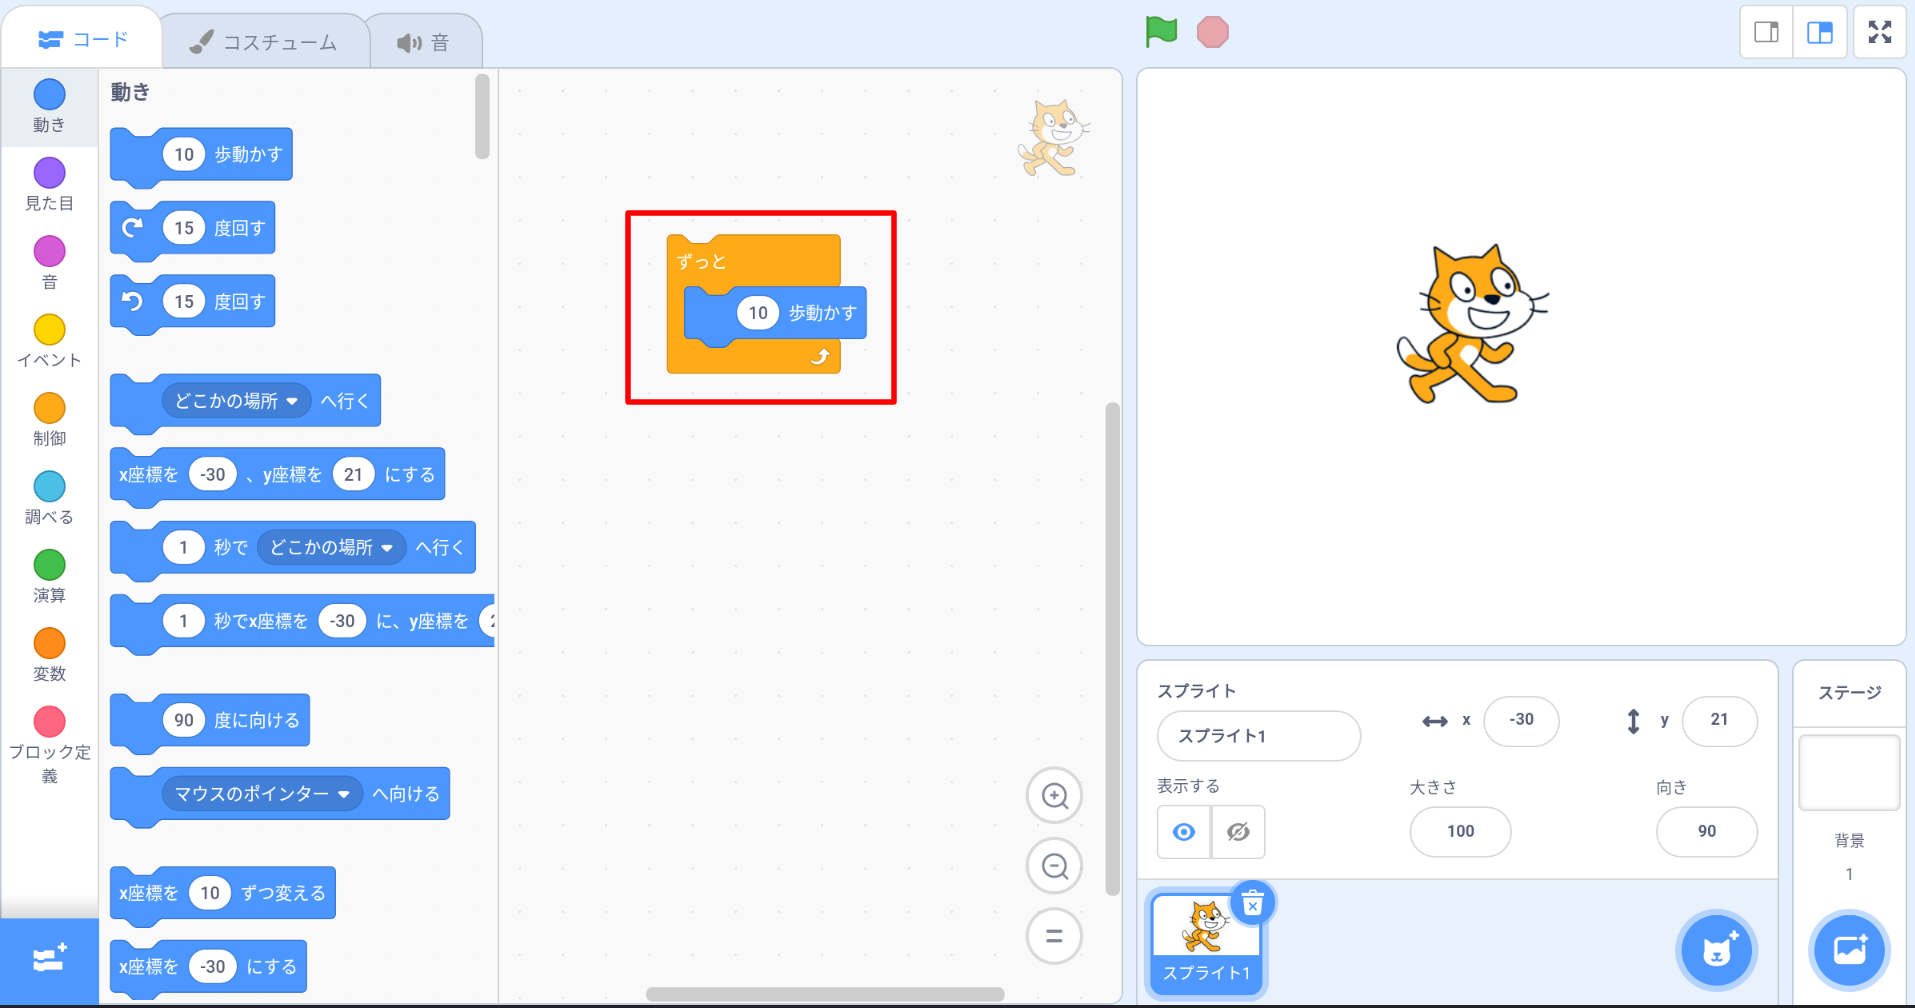
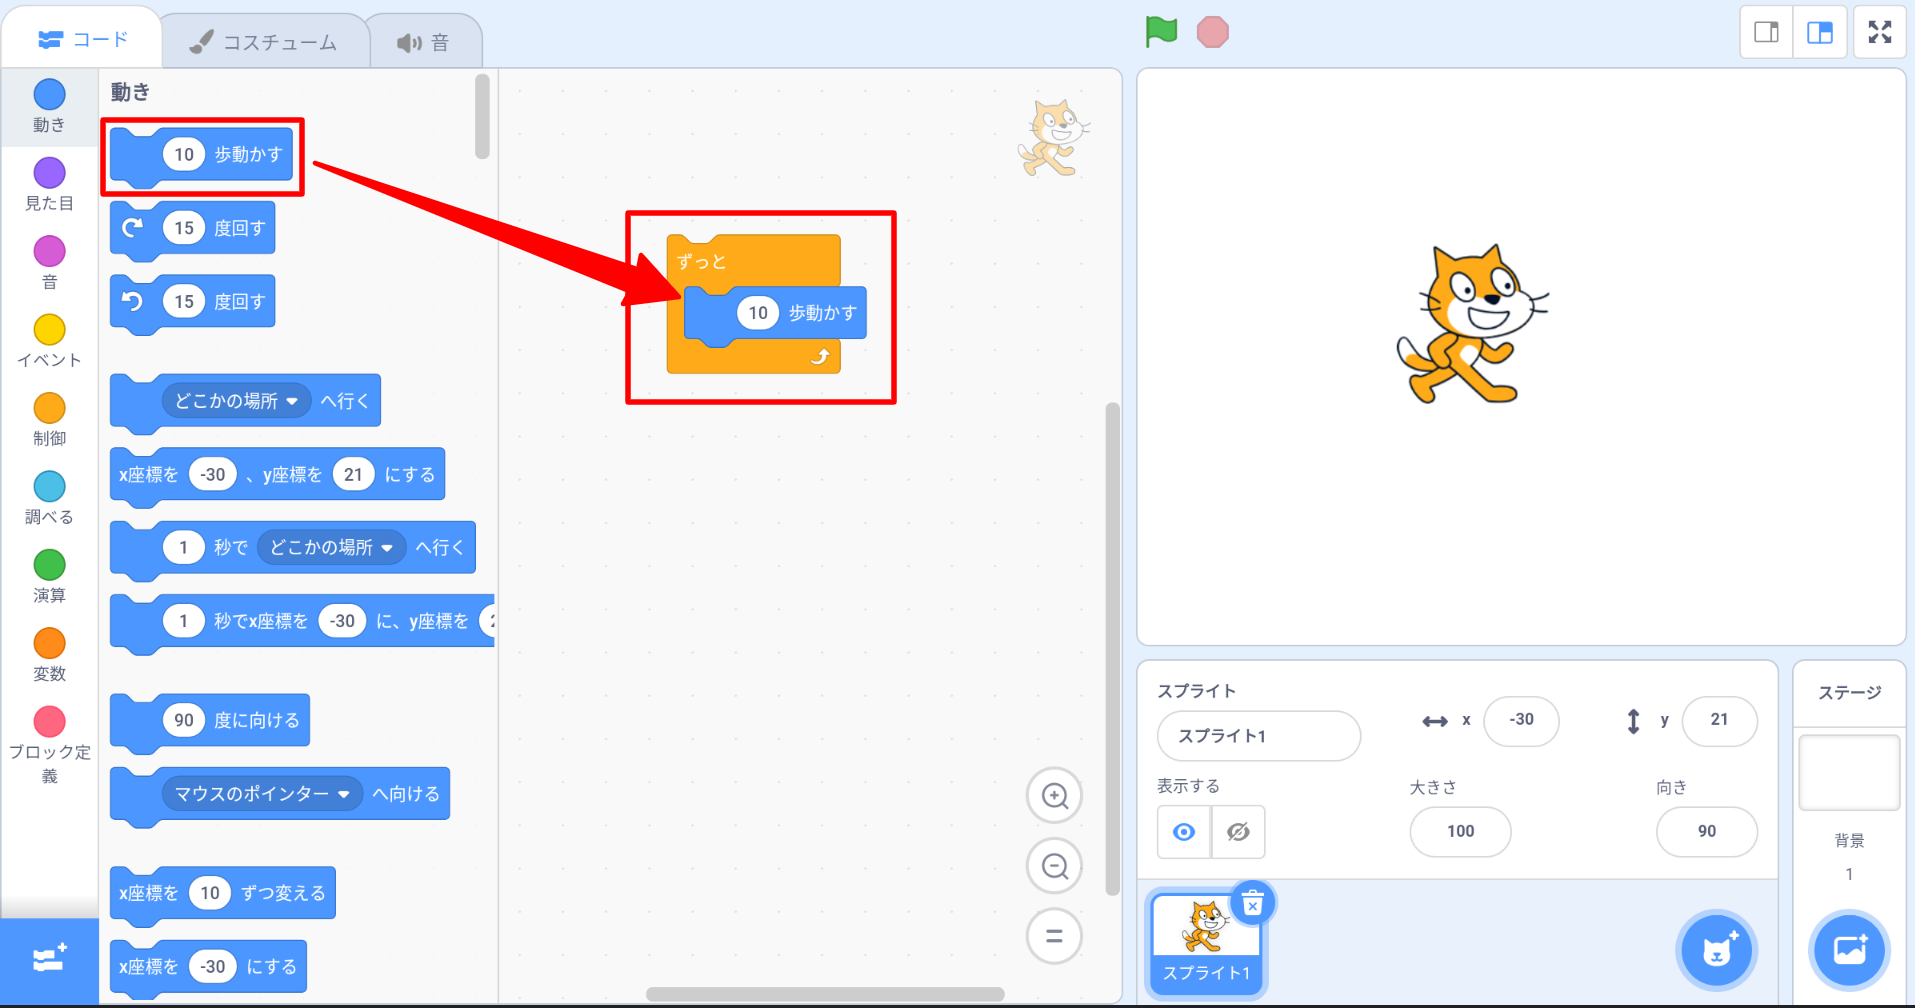
ステージの背景を変える手順を追記

diff --git a/scratch/scratch3-intro.md b/scratch/scratch3-intro.md
@@ -70,6 +70,8 @@ Scratch 3を起動すると以下の画面が表示される。
 
 ブロックカテゴリ「制御」から「ずっと」のブロックをスクリプトエリアに持ってきて、その中に「10歩動かす」のブロックを入れてください。
 
+![](./img/neko-always.png)
+
 ![](./img/neko-walk-always.png)
 
 その後、「ずっと」のブロックをクリックして、ネコはどうなるかを見てみよう。
@@ -136,6 +138,19 @@ Scratch 3を起動すると以下の画面が表示される。
 
 ## 背景を変えてみよう
 
+画面上右下の「背景を選ぶ」ボタンをクリックしてみよう。
+
+![](./img/neko-background-icon.png)
+
+そうしたら、下記画面が表示される。表示されているたくさんの種類の背景から好きなものをクリックして、左上の「Back」矢印をクリックしてください。
+
+![](./img/neko-background.png)
+
+例えば、上の図の中の「bedroom 1」を選んだとすると、ステージの背景は以下のように変わるはず。
+
+![](./img/neko-background-bedroom.png)
+
+いろんな背景を変えてみて自分の一番すぎなものにしてみてください。
 
 </br>
 
